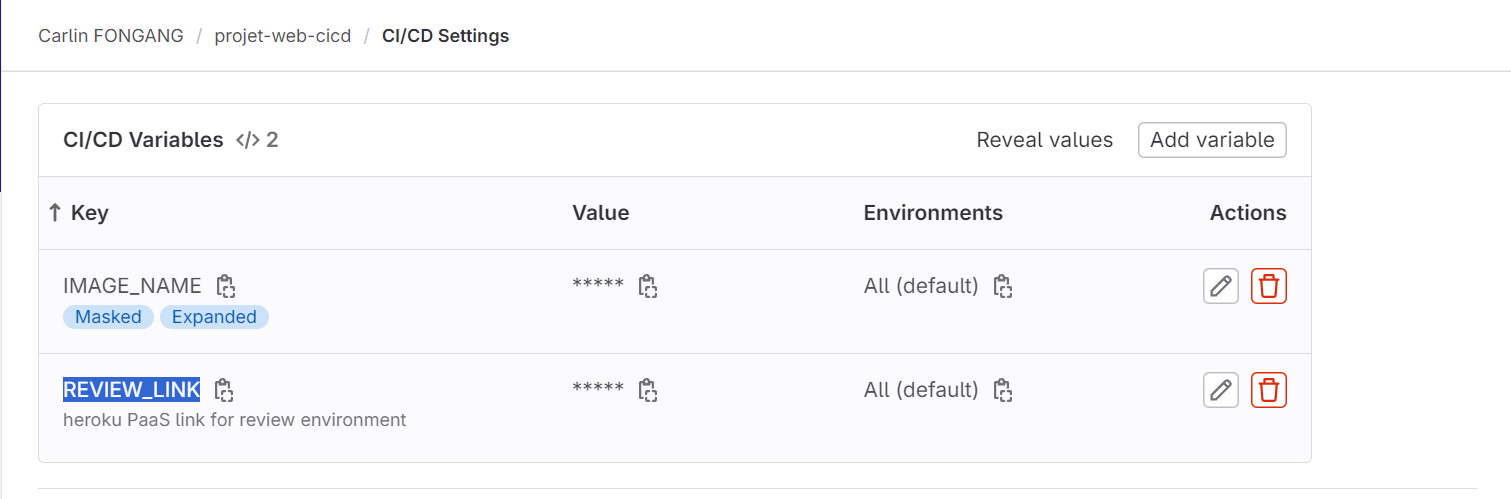
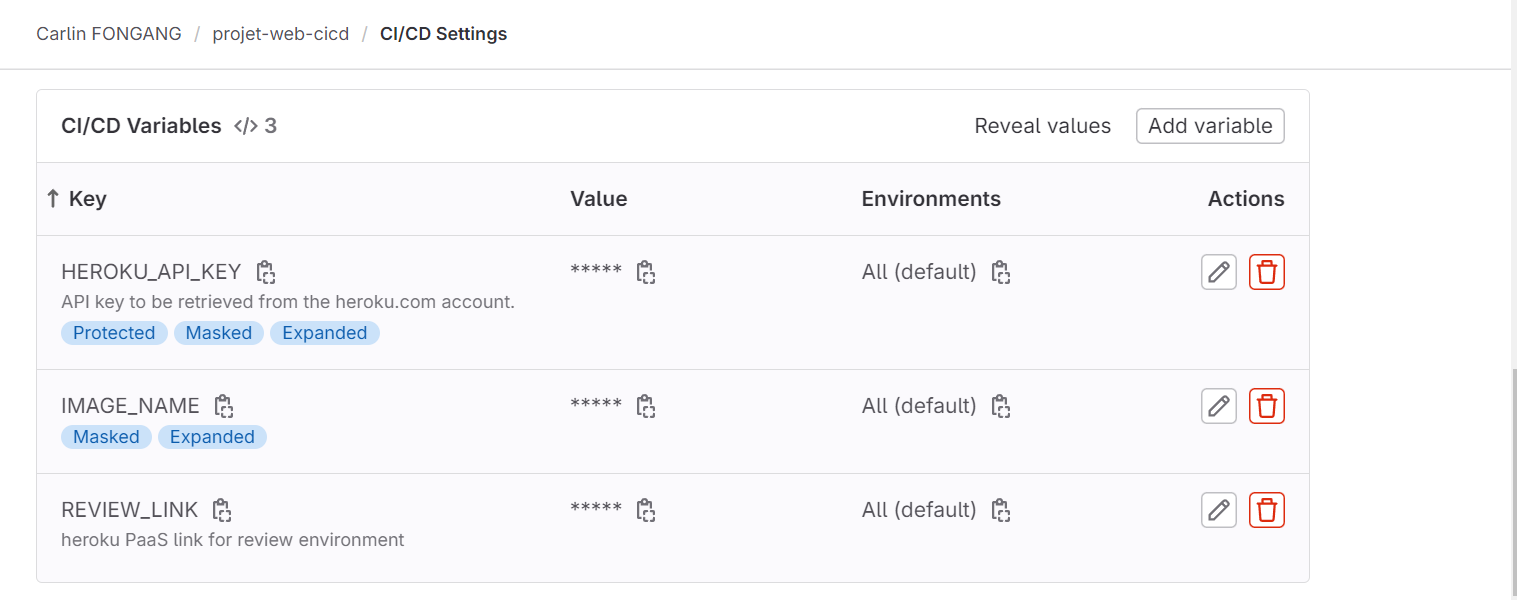
update readme

diff --git a/README.md b/README.md
@@ -192,25 +192,47 @@ Dans le stage "Release image", l'objectif est de préparer l'image Docker pour l
 
 ## deploy review stage
 ### Description 
-
+Dans le stage "Deploy review", la pipeline est déclenché uniquement lors des requêtes de fusion (merge_requests), une application Heroku (PaaS) est créée pour chaque branche en cours d'examen, utilisant des conteneurs pour le déploiement. Le processus comprend l'installation de npm, la configuration de l'accès au registre Heroku, la création de l'application basée sur la branche, le déploiement des conteneurs, et enfin, la mise en production de l'application sur Heroku. Cela permet d'avoir des environnements distincts pour chaque branche en cours d'évaluation, avec une URL de l'environnement de révision disponible pour des tests spécifiques à la branche. Un arrêt propre de l'environnement de révision est effectué lors de la fusion ou de l'abandon de la demande de fusion.
 >![Alt text](image-17.png)
 *script du stage deploy review*
 
-### Explication
 
+### Explications du script
+1. `apk --no-cache add npm`: Installe le gestionnaire de paquets npm nécessaire pour les dépendances du projet.
+
+2. `npm install -g heroku`: Installe l'outil de ligne de commande Heroku de manière globale pour faciliter les opérations Heroku.
+
+3. `heroku container:login`: Authentifie l'utilisateur sur le registre de conteneurs Heroku, permettant ainsi le déploiement ultérieur.
+
+4. `APP_NAME=staticapp-$CI_COMMIT_REF_NAME`: Définit le nom de l'application Heroku en fonction de la branche actuelle.
+
+5. `[[ ${#APP_NAME} -gt 31 ]]` && echo 'the name of the heroku application you want to create is longer than 30 characters' && exit 1: Vérifie la longueur du nom de l'application Heroku et arrête le script si elle dépasse la limite autorisée (30 caractères sur Heroku).
+
+6. `heroku create $APP_NAME || echo "project already exist"`: Crée l'application Heroku avec le nom défini précédemment, en évitant une erreur si le projet existe déjà.
+
+7. `heroku container:push -a $APP_NAME web`: Pousse les images de conteneurs vers l'application Heroku créée, prêtes pour le déploiement.
+
+8. `heroku container:release -a $APP_NAME web`: Met en production l'application sur Heroku en publiant les conteneurs précédemment poussés.
 
 ### setup (variable)
 `Settings > CICD > Variables\`
-![Alt text](image-18.png)
+>![Alt text](image-18.png)
 *setting variables*
 
+#### How to setup link heroku
+<p align="center">
+visit this link to setup heroku API ant url link for you gitlab account
+  <a href="https://gitlab.com/CarlinFongang/lab4-deployment" alt="Crédit : Carlin FONGANG" >
+  </a>
+</p>
 
 ### Rendu
 
 
 
 
-## deploy review stage
+
+## stop review stage
 ### Description 
 
 ### Explication
